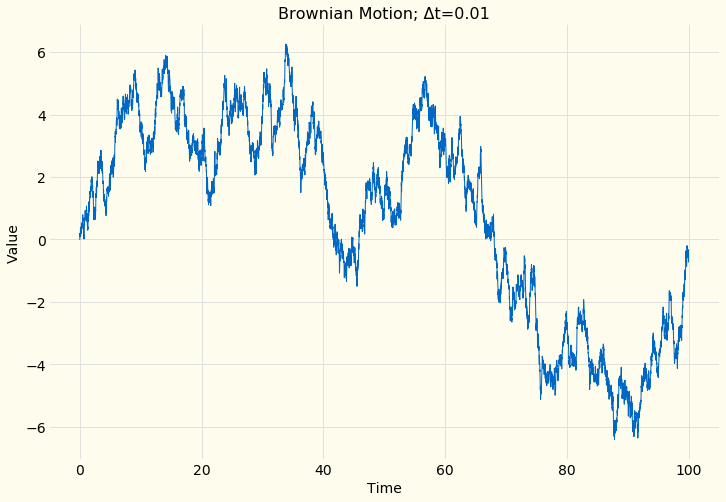
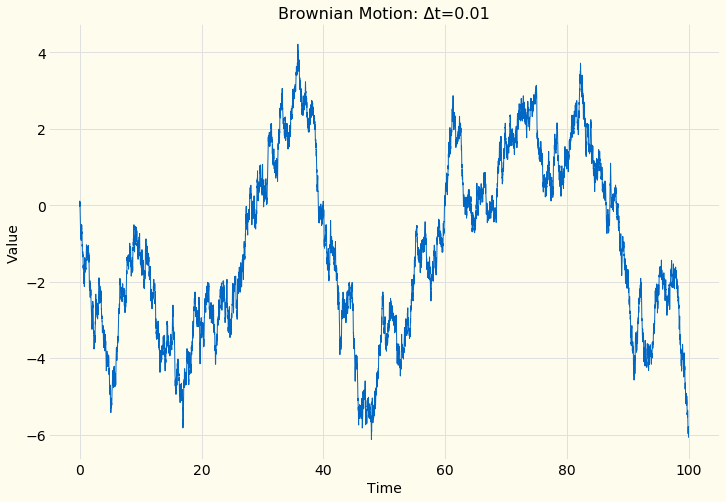
added autocorrelation plot

diff --git a/hydrogen_notebooks/algorithmic_trading/brownian_motion.py b/hydrogen_notebooks/algorithmic_trading/brownian_motion.py
@@ -22,7 +22,7 @@ for i in range(nsim):
     else:
         samples = numpy.append(samples, numpy.array([brownian_motion.brownian_motion(Δt, npts)]), axis=0)
 time = numpy.linspace(0.0, float(npts-1)*Δt, npts)
-title = f"Brownian Motion; Δt={Δt}"
+title = f"Brownian Motion: Δt={Δt}"
 brownian_motion.multiplot(samples, time, [5.0, 12.0], title, "brownian_motion_1")
 
 # %%
@@ -37,7 +37,7 @@ for i in range(nsim):
     else:
         samples = numpy.append(samples, numpy.array([brownian_motion.brownian_motion(Δt, npts)]), axis=0)
 time = numpy.linspace(0.0, float(npts-1)*Δt, npts)
-title = f"Brownian Motion; Δt={Δt}"
+title = f"Brownian Motion: Δt={Δt}"
 brownian_motion.multiplot(samples, time, [5.0, 25.0], title, "brownian_motion_2")
 
 # %%
@@ -46,8 +46,14 @@ brownian_motion.multiplot(samples, time, [5.0, 25.0], title, "brownian_motion_2"
 npts = 10000
 samples = brownian_motion.brownian_motion(Δt, npts)
 time = numpy.linspace(0.0, float(npts-1)*Δt, npts)
-title = f"Brownian Motion; Δt={Δt}"
+title = f"Brownian Motion: Δt={Δt}"
 brownian_motion.plot(samples, time, title, "brownian_motion_3")
+
+# %%
+
+max_lag = 5000
+title = f"Brownian Motion Autocorrelation: Δt={Δt}, npts={npts}"
+brownian_motion.autocor(title, samples, Δt, max_lag, "brownian_motion_autocorrelation_1")
 
 # %%
 
@@ -63,7 +69,7 @@ for i in range(nsim):
     else:
         samples = numpy.append(samples, numpy.array([brownian_motion.brownian_motion_with_drift(μ, σ, Δt, npts)]), axis=0)
 time = numpy.linspace(0.0, float(npts-1)*Δt, npts)
-title = f"Brownian Motion with Drift; Δt={Δt}, μ={μ}, σ={σ}"
+title = f"Brownian Motion with Drift: Δt={Δt}, μ={μ}, σ={σ}"
 brownian_motion.multiplot(samples, time, [5.0, 8.0], title, "brownian_motion_with_drift_1")
 
 # %%
@@ -80,7 +86,7 @@ for i in range(nsim):
     else:
         samples = numpy.append(samples, numpy.array([brownian_motion.brownian_motion_with_drift(μ, σ, Δt, npts)]), axis=0)
 time = numpy.linspace(0.0, float(npts-1)*Δt, npts)
-title = f"Brownian Motion with Drift; Δt={Δt}, μ={μ}, σ={σ}"
+title = f"Brownian Motion with Drift: Δt={Δt}, μ={μ}, σ={σ}"
 brownian_motion.multiplot(samples, time, [5.0, 8.0], title, "brownian_motion_with_drift_2")
 
 # %%
@@ -98,7 +104,7 @@ for i in range(nsim):
     else:
         samples = numpy.append(samples, numpy.array([brownian_motion.geometric_brownian_motion(μ, σ, s0, Δt, npts)]), axis=0)
 time = numpy.linspace(0.0, float(npts-1)*Δt, npts)
-title = f"Geometric Brownian Motion; Δt={Δt}, μ={μ}, σ={σ}, "+r"$S_0$" + f"={s0}"
+title = f"Geometric Brownian Motion: Δt={Δt}, μ={μ}, σ={σ}, "+r"$S_0$" + f"={s0}"
 brownian_motion.multiplot(samples, time, [5.0, 60.0], title, "geometric_brownian_motion_1")
 
 
@@ -117,7 +123,7 @@ for i in range(nsim):
     else:
         samples = numpy.append(samples, numpy.array([brownian_motion.geometric_brownian_motion(μ, σ, s0, Δt, npts)]), axis=0)
 time = numpy.linspace(0.0, float(npts-1)*Δt, npts)
-title = f"Geometric Brownian Motion; Δt={Δt}, μ={μ}, σ={σ}, "+r"$S_0$" + f"={s0}"
+title = f"Geometric Brownian Motion: Δt={Δt}, μ={μ}, σ={σ}, "+r"$S_0$" + f"={s0}"
 brownian_motion.multiplot(samples, time, [5.0, 1000.0], title, "geometric_brownian_motion_2")
 
 # %%
@@ -135,5 +141,5 @@ for i in range(nsim):
     else:
         samples = numpy.append(samples, numpy.array([brownian_motion.geometric_brownian_motion(μ, σ, s0, Δt, npts)]), axis=0)
 time = numpy.linspace(0.0, float(npts-1)*Δt, npts)
-title = f"Geometric Brownian Motion; Δt={Δt}, μ={μ}, σ={σ}, "+r"$S_0$" + f"={s0}"
+title = f"Geometric Brownian Motion: Δt={Δt}, μ={μ}, σ={σ}, "+r"$S_0$" + f"={s0}"
 brownian_motion.multiplot(samples, time, [0.2, 30.0], title, "geometric_brownian_motion_3")

diff --git a/lib/stats.py b/lib/stats.py
@@ -1,0 +1,37 @@
+import numpy
+
+def cummean(samples):
+    nsample = len(samples)
+    mean = numpy.zeros(nsample)
+    mean[0] = samples[0]
+    for i in range(1, nsample):
+        mean[i] = (float(i) * mean[i - 1] + samples[i])/float(i + 1)
+    return mean
+
+def cumsigma(samples):
+    nsample = len(samples)
+    mean = cummean(samples)
+    var = numpy.zeros(nsample)
+    var[0] = samples[0]**2
+    for i in range(1, nsample):
+        var[i] = (float(i) * var[i - 1] + samples[i]**2)/float(i + 1)
+    return numpy.sqrt(var-mean**2)
+
+def cum_covaraince(x, y):
+    nsample = len(x)
+    meanx = cummean(x)
+    meany = cummean(y)
+    cov = numpy.zeros(nsample)
+    cov[0] = x[0]*y[0]
+    for i in range(1, nsample):
+        cov[i] = (float(i) * cov[i - 1] + x[i] * y[i])/float(i + 1)
+    return cov - meanx * meany
+
+def autocorrelate(x):
+    n = len(x)
+    x_shifted = x - x.mean()
+    x_padded = numpy.concatenate((x_shifted, numpy.zeros(n-1)))
+    x_fft = numpy.fft.fft(x_padded)
+    h_fft = numpy.conj(x_fft) * x_fft
+    ac = numpy.fft.ifft(h_fft)
+    return ac[0:n]/ac[0]

diff --git a/lib/brownian_motion.py b/lib/brownian_motion.py
@@ -1,6 +1,7 @@
 import numpy
 from matplotlib import pyplot
 from lib import config
+from lib import stats
 
 pyplot.style.use(config.glyfish_style)
 
@@ -48,3 +49,14 @@ def plot(samples, time, title, plot_name):
     axis.set_title(title)
     axis.plot(time, samples, lw=1)
     config.save_post_asset(figure, "mean_reversion", plot_name)
+
+def autocor(title, samples, Δt, max_lag, plot):
+    figure, axis = pyplot.subplots(figsize=(10, 7))
+    axis.set_title(title)
+    axis.set_ylabel(r"$\gamma_{\tau}$")
+    axis.set_xlabel("Time Lag (τ)")
+    axis.set_xlim([0, Δt*max_lag])
+    axis.set_ylim([-1.05, 1.0])
+    ac = stats.autocorrelate(samples)
+    axis.plot(Δt*numpy.array(range(max_lag)), numpy.real(ac[:max_lag]))
+    config.save_post_asset(figure, "mean_reversion", plot)
